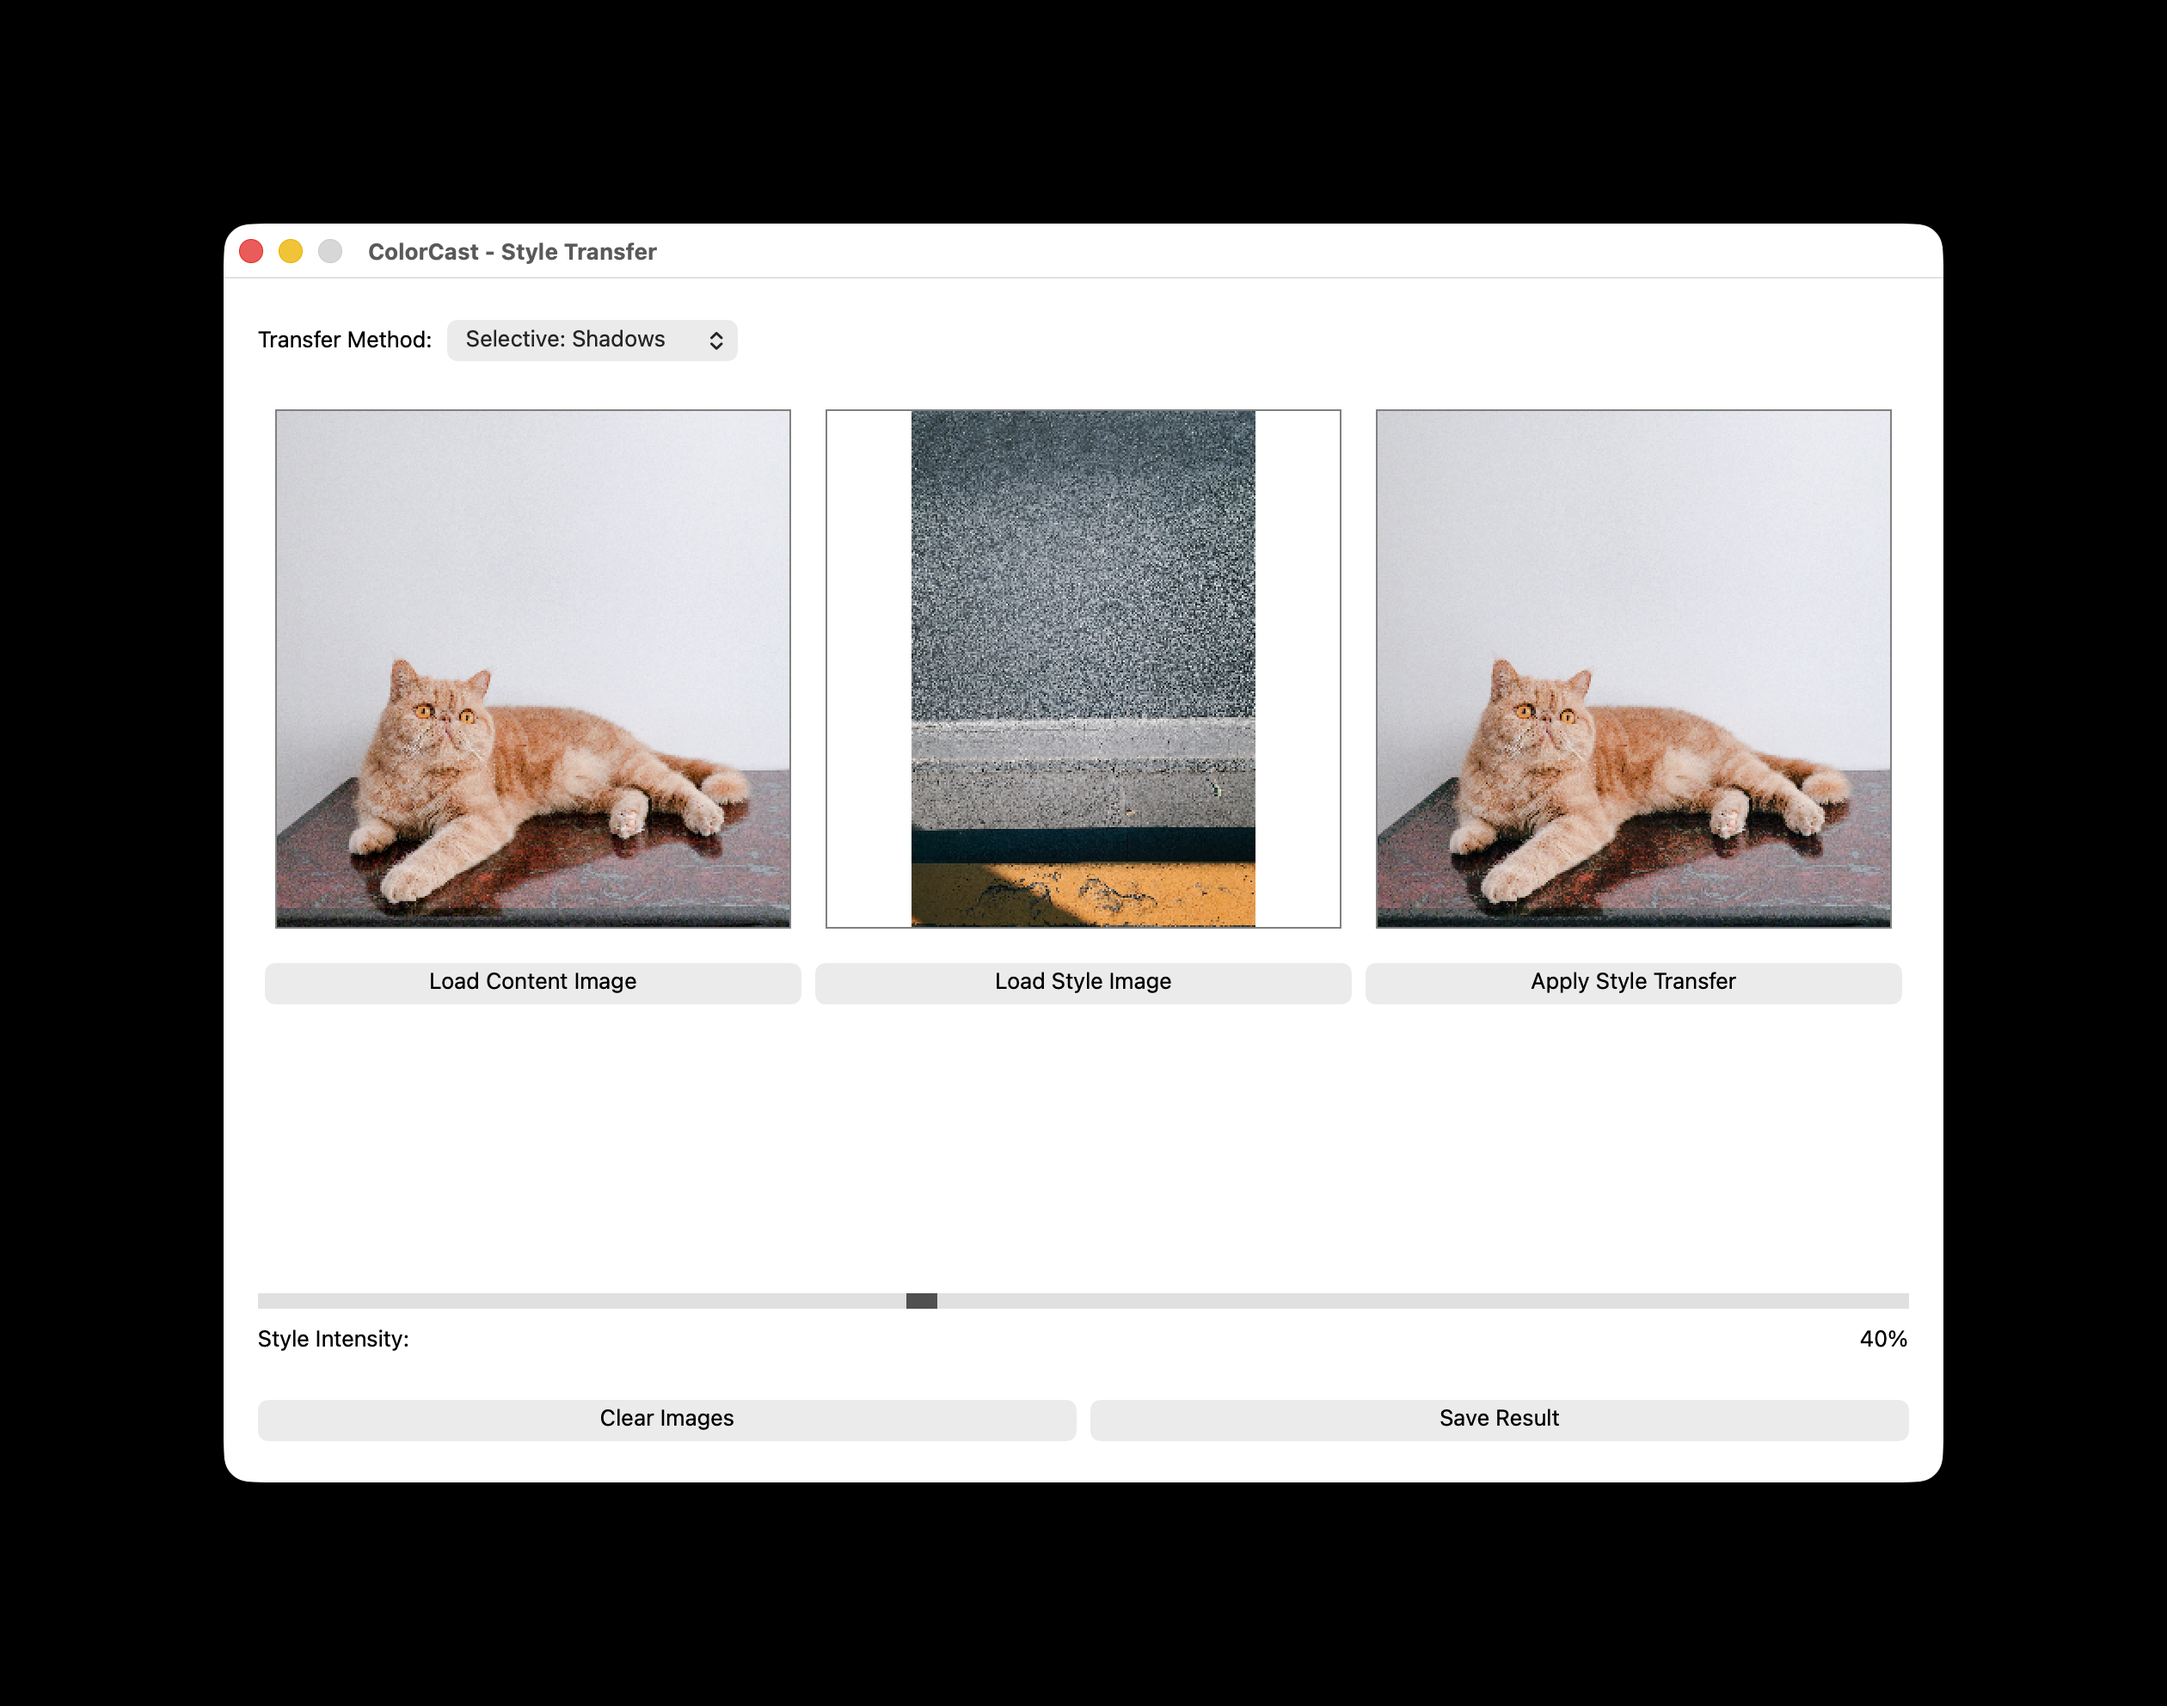
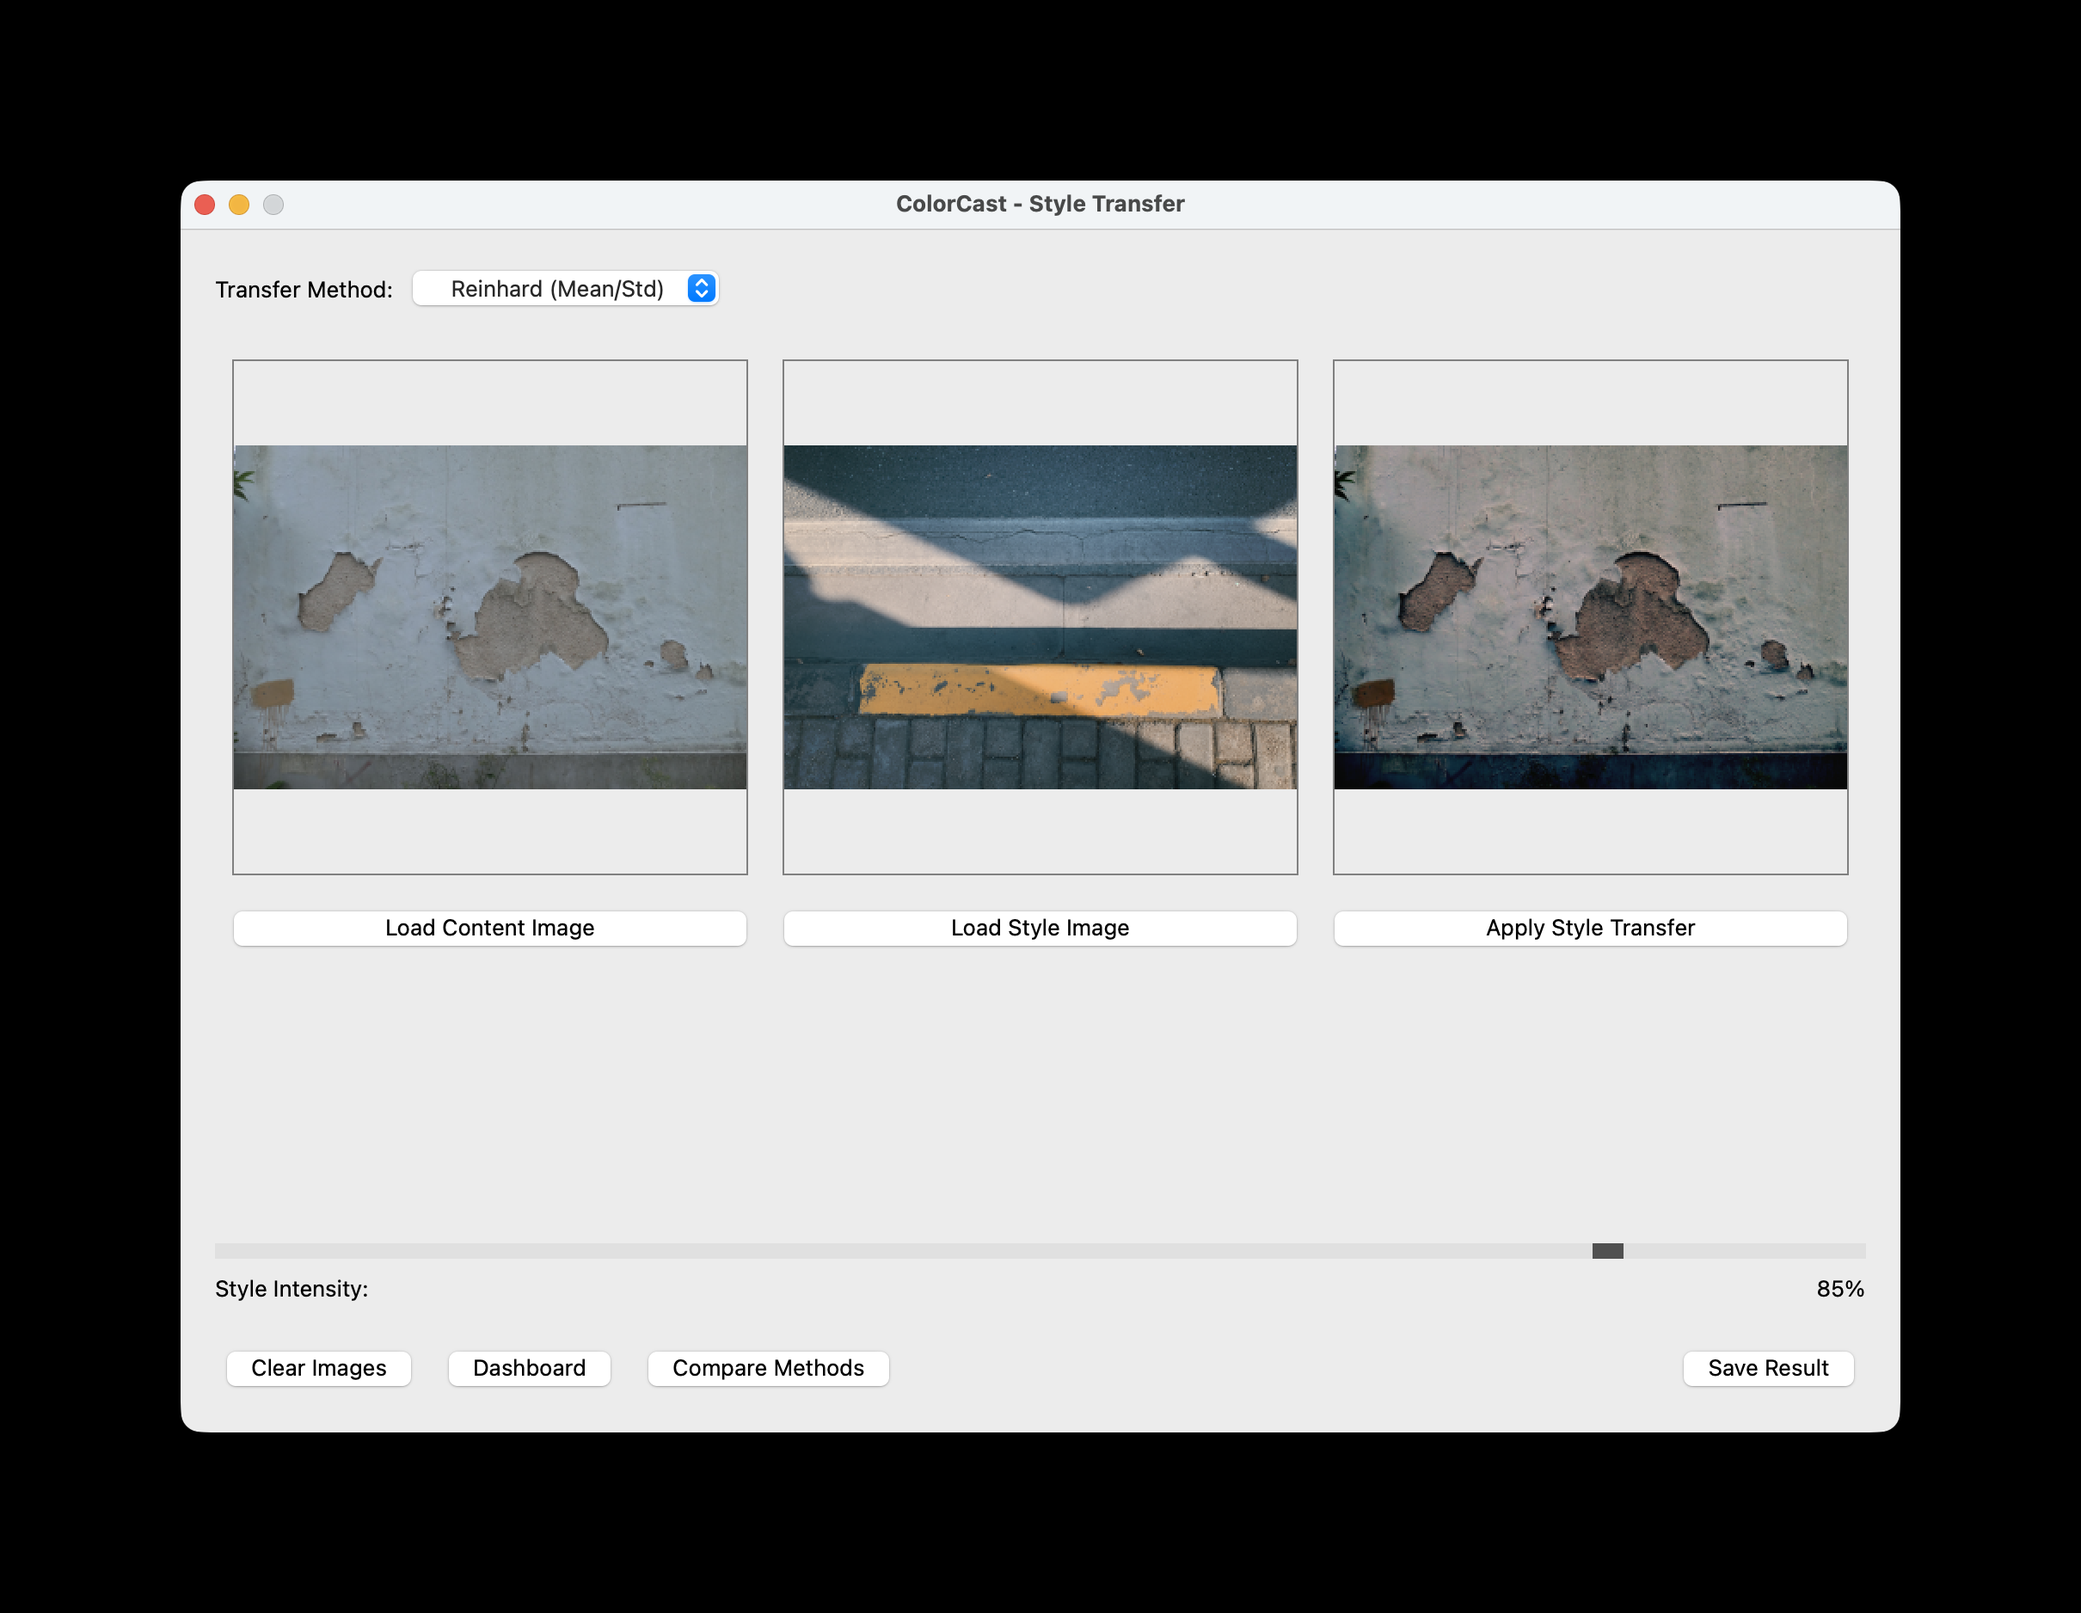
docs: update README with metrics, screenshots, and voice fixes
Update test metrics to match current suite (75% coverage, 359 passed, 1 skipped).
Add CVD dashboard, method comparison, and dashboard report screenshots.
Rewrite Use Cases section to comply with project writing standards.
Add tests/ to lint commands in Contributing section.

Changed region(s): [[0.062, 0.0928, 0.9298, 0.8966]]

diff --git a/README.md b/README.md
@@ -2,8 +2,7 @@
 
 [![Python Version](https://img.shields.io/badge/python-3.10%2B-blue.svg)](https://www.python.org/downloads/)
 [![License](https://img.shields.io/badge/license-MIT-green.svg)](LICENSE)
-[![Code Coverage](https://img.shields.io/badge/coverage-69%25-green.svg)](tests/)
-[![Tests](https://img.shields.io/badge/tests-345%20passed-brightgreen.svg)](tests/)
+[![CI](https://github.com/MichailSemoglou/ColorCast/actions/workflows/ci.yml/badge.svg)](https://github.com/MichailSemoglou/ColorCast/actions/workflows/ci.yml)
 [![DOI](https://zenodo.org/badge/DOI/10.5281/zenodo.18550038.svg)](https://doi.org/10.5281/zenodo.18550038)
 [![PyPI Downloads](https://static.pepy.tech/personalized-badge/colorcast?period=total&units=INTERNATIONAL_SYSTEM&left_color=GREY&right_color=BLUE&left_text=downloads)](https://pepy.tech/projects/colorcast)
 
@@ -18,7 +17,7 @@
 - **Selective Regional Transfer** - Target shadows, midtones, or highlights specifically
 - **Modular Package** - Use as Python API or run GUI/CLI
 - **Performance Optimized** - LRU caching and batch processing support
-- **Tested** - 69% test coverage with 345 passing tests
+- **Tested** - 75% test coverage with 359 passing tests
 - **Documented** - API documentation and examples
 - **Plugin Architecture** - Easy to add custom transfer methods
 
@@ -43,6 +42,18 @@ _The ColorCast interface: content image, style image, and result panels_
 ![ColorCast Daltonize (P) mode](imgs/interface_2.png)
 
 _Daltonize (P) mode correcting an image for protanopia, with correction intensity control_
+
+![CVD Accessibility Dashboard](imgs/CVD-Accessibility-Dashboard.png)
+
+_CVD Accessibility Dashboard: side-by-side simulations and error maps for all three deficiency types_
+
+![Compare Transfer Methods](imgs/Compare-Transfer-Methods.png)
+
+_Method comparison: ranked results across multiple metrics and transfer algorithms_
+
+![Dashboard Report](imgs/dashboard_report.png)
+
+_Full dashboard report summarizing simulation results and Daltonization efficacy_
 
 ## Installation
 
@@ -106,8 +117,6 @@ Or use the package entry point:
 ```bash
 python -m colorcast
 ```
-
-The root `colorcast.py` script is kept as a deprecated compatibility shim and also launches the GUI. Use `python -m colorcast` or `colorcast-gui` for new work.
 
 **Step-by-step:**
 
@@ -258,10 +267,10 @@ if processor.failed_files:
 #### Using Caching
 
 ```python
-from colorcast.processing.cache import LRUCache
+from colorcast.processing.cache import StyleTransferCache
 
 # Create cache
-cache = LRUCache(max_size=100)
+cache = StyleTransferCache(max_size=100)
 
 # Use cache for expensive operations
 result = cache.get_or_compute(
@@ -321,9 +330,9 @@ pytest tests/test_transfer_methods.py
 pytest -v
 ```
 
-**Test Coverage:** 69% (345 passing tests, 1 skipped)
+**Test Coverage:** 75% (359 passing, 1 skipped)
 
-- Core transfer methods: 99% coverage
+- Core transfer methods: 100% coverage
 - Full test suite including integration, performance, and property-based tests
 - Property-based tests require the optional `hypothesis` dependency
 
@@ -369,11 +378,10 @@ result_lab = ((source_lab - μ_source) × (σ_ref / σ_source)) + μ_ref
 
 **5. Selective Color Transfer**
 
-```python
-luminance = 0.299R + 0.587G + 0.114B
-mask = (luminance >= shadow_threshold) & (luminance <= highlight_threshold)
-result = source × (1 - mask) + matched × mask
-```
+A smoothstep mask feathered over a ±0.05 luminance band blends the
+matched result into the source only within the targeted tonal range
+(shadows, midtones, or highlights), producing a seamless transition
+without hard edges.
 
 - Region-based masking using luminance
 - Precise tonal range targeting
@@ -388,14 +396,11 @@ result = source × (1 - mask) + matched × mask
 
 ## Use Cases
 
-ColorCast is perfect for:
-
-- **Film Color Grading** - Matching scenes shot at different times
-- **Photography** - Applying vintage or cinematic looks
-- **Art Creation** - Transferring painting styles to photos
-- **Social Media Content** - Creating consistent color themes
-- **Game Development** - Style transfer for game assets
-- **Research** - Academic research in color transfer
+- Film color grading across different shooting conditions
+- Photography: applying vintage or cinematic looks
+- Style transfer for game assets and art creation
+- Consistent color themes for social media content
+- Academic research in color transfer
 
 ## Contributing
 
@@ -417,13 +422,31 @@ pip install -e ".[dev]"
 pytest
 
 # Run linting
-black colorcast/
-isort colorcast/
-mypy colorcast/
+black colorcast/ tests/
+isort colorcast/ tests/
+ruff check colorcast/ tests/
 
 # Run type checking
 mypy colorcast/
 ```
+
+## Citing ColorCast
+
+If you use ColorCast in academic work, please cite it as:
+
+```bibtex
+@software{Semoglou_ColorCast,
+  author    = {Semoglou, Michail},
+  title     = {ColorCast: Color Transfer Toolkit for Python},
+  doi       = {10.5281/zenodo.18550038},
+  url       = {https://github.com/MichailSemoglou/ColorCast},
+  version   = {2.5.0},
+  year      = {2026},
+}
+```
+
+A `CITATION.cff` file is included in the repository for GitHub's citation
+tooling.
 
 ## License
 
